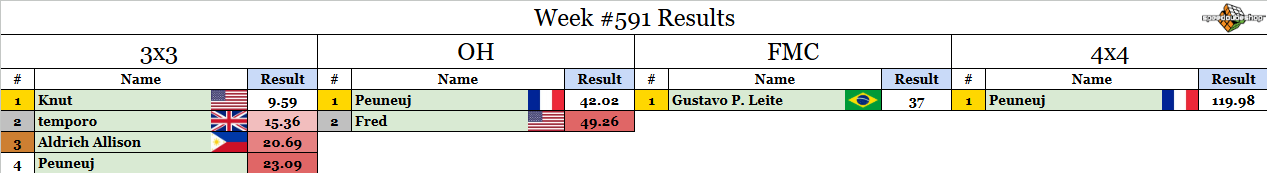
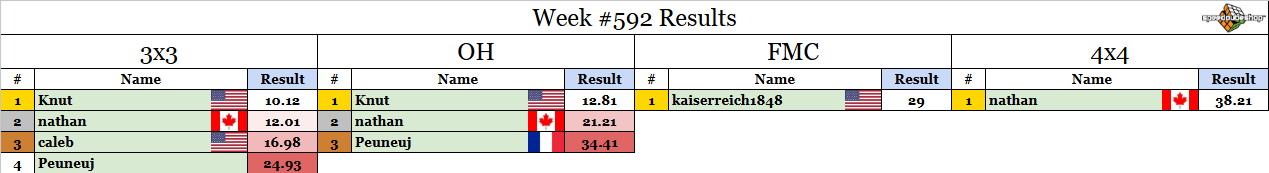
weekly comp update

diff --git a/src/weeklycomp/post.md b/src/weeklycomp/post.md
@@ -1,10 +1,10 @@
-## Weekly Competition #592 
+## Weekly Competition #593 
  
 Sponsored by SpeedCubeShop
 Shop here: [speedcubeshop.com/rouxcomp](https://speedcubeshop.com/rouxcomp)
 Use code ROUX for 5% off
 
-One competitor will be selected at random to receive a $5 SCS gift card! Congrats to last week's winner by a random draw: **Gustavo P. Leite**. DM me for the prize. 
+One competitor will be selected at random to receive a $5 SCS gift card! Congrats to last week's winner by a random draw: **Peuneuj **. DM me for the prize. 
  
 Check whether or not you participated this week yet at [https://bit.ly/RMSWeeklyCompSummary](https://bit.ly/RMSWeeklyCompSummary)  
  
@@ -18,28 +18,28 @@ Check whether or not you participated this week yet at [https://bit.ly/RMSWeekly
  7. The comp runs until Sunday 5pm Eastern time (more or less). Enter your times using the forms links below. 
  
 ### 3x3: [Submission Form](https://forms.gle/H5xoCWvGKnZ92fQt8) 
- 1. U' F L' B2 R2 U B2 D' F2 D L2 F2 D' B L B2 U2 R2 F' D' 
- 2. U L D2 B2 R' F2 U F L' U2 B R2 B2 R2 L2 U2 F2 U2 F U2 
- 3. L F2 L F2 U2 F2 L' F2 L2 U2 R D R2 D B' R' F2 D' R' F2 
- 4. U F2 L2 R2 F2 U L2 U L2 B2 D B U2 R' D2 R2 U R B' D 
- 5. F' D2 F2 U B2 R2 F2 L2 U B2 L2 D2 R B L D L R' U2 B' R 
+ 1. F D2 B L2 R2 B2 U2 F L2 B' U2 F2 U' L F U2 L' R F R D 
+ 2. L2 B2 U2 R' F2 D2 R B2 L2 U2 F' D L F2 L2 U R' U2 F 
+ 3. L D' U2 L2 B' R2 F L2 R2 D2 B' D2 F2 R B2 F2 R' B' D2 L 
+ 4. F2 L2 D F2 U' F2 D2 L2 D F2 R B D2 U' B L' F2 U' B2 F' 
+ 5. U2 B2 U2 F2 L2 F2 R D2 U2 R' F R' D2 U' F' R U R' D' 
  
 ### OH: [Submission Form](https://forms.gle/UgRLW3K1d5KkMGfM9) 
- 1. R2 D2 F2 L2 D F2 R2 D' B2 L2 F' R' U2 B U' B2 U2 L' D' U2 F' 
- 2. R' F' L2 F2 R2 B2 U L2 D2 U' L2 B2 D' B' U R D F L' D2 F2 
- 3. R' F R2 B' R2 B' D2 B2 U2 B' L2 B2 R' D R F' R F L2 U2 
- 4. D R F U2 R2 U2 F2 L2 U2 B' R2 U2 B U' L D' L' D R 
- 5. L2 F' L2 B D2 B D2 F' L2 U2 F R' U2 L D B R' F D' R' U2 
+ 1. R U F2 R2 L F2 B' D' F2 D' L2 F2 D R2 F2 U L2 U' L' F2 
+ 2. R' D' R B2 F2 U B2 U' L2 U2 B2 F2 R2 U' R B L F' R' B2 F' 
+ 3. B2 U2 L2 R2 B D2 U2 B' U2 F' R2 D' B' R' F' U' L D R2 U F 
+ 4. F L2 B' U F' U R' U' D' R2 D R2 B2 D2 B2 L2 B2 D L D2 
+ 5. R2 B' D F2 U F2 D R2 U2 B2 F2 L2 D R2 L' B U L' B' U L' 
  
 ### FMC: [Submission Form](https://forms.gle/1P9VUgZmA1pibwvL9) 
- 1. R' U' F D2 B2 D' R2 B2 L2 R2 U' R2 B2 L' U2 R D' B D' R B2 D' B' R' U' F 
+ 1. R' U' F L' F' L U2 F2 U2 B2 L' F2 L B2 D2 L2 R' B L2 B D R D F' R' U' F 
  
 ### 4x4: [Submission Form](https://forms.gle/bHNjncvEcPvFWBP2A) 
- 1. D2 B' D2 B2 D2 L2 B U2 B2 U2 L U2 D' B' L' F2 D B U' Rw2 Fw2 U R2 F D Uw2 Rw2 U2 D' R2 U' Rw' D2 L Rw2 F' Uw' B2 D2 F Uw' R2 Fw 
- 2. F2 L2 F2 U' F2 U' L2 F2 B2 U L2 U' B' R D' R' B' U' R' U Uw2 B Rw2 D' F Rw2 F2 D' Fw2 U' D' F R2 L' U F' Fw2 Rw' Uw L' D2 Fw R' F' Uw' 
- 3. R2 F2 D' L2 U' F2 D2 R2 F2 U R2 B' R' D2 R' F2 B2 L F U' Fw2 Uw2 F' Fw2 U2 Uw2 R B' D2 L F D2 B2 Uw F U2 B2 D' Fw' D' Rw2 Fw' U Fw2 
- 4. R U' F R U2 L B' U2 R B2 R U2 D2 R F2 R2 B2 U2 F2 D' F' Uw2 R Fw2 U' L Fw2 L D' B2 R2 U Uw2 Fw' R D F2 Fw2 L Fw Rw' B' Fw' U' Uw R2 
- 5. L2 F L2 F2 U2 D2 B' U2 F' R2 U D2 R' B2 R2 D' L' D F2 B' Rw2 Uw2 F D' B2 R2 F' D2 Uw2 Rw2 B Rw Fw2 L2 F' R B2 R Uw' Fw' R' Rw2 Fw' R' D2 
+ 1. U2 L' B' U2 B2 D2 R' F2 B2 U2 L F2 R2 L' U B D B L B2 R Uw2 Fw2 U Rw2 U' B2 R' Fw2 D2 R2 D Uw2 B Fw U2 R L2 U2 Fw' Uw' Fw' D L Rw2 Uw' Rw 
+ 2. U2 R2 U' F2 R2 D' L2 U2 B2 D' R2 F' U2 D' R' L U F R U' Rw2 D Fw2 U2 F' L2 Rw2 B' Fw2 R2 Rw2 F' L' Rw' F2 B' L2 Rw' Fw' Rw2 D' Uw Fw' D2 F2 
+ 3. F B' U F R' L F' R B2 R2 D2 F' U2 R2 B R2 F R L2 Fw2 Uw2 F Fw2 U' Fw2 L2 B2 Fw2 Uw2 R2 F' R2 Rw F R2 U Rw2 Uw Rw D R2 U2 Fw Uw 
+ 4. R2 D' F D F2 R L U' F2 U D2 F2 U R2 D' L2 F2 U R B' Rw2 D R' Fw2 D' R' U B2 R2 D R Fw' R' D R' F' Rw' D2 Uw Rw Uw Rw2 B2 R2 
+ 5. D' B2 R2 U' B2 D' R2 D' R2 B2 L2 B' R2 L F' U' R' L2 U R' F Rw2 D' B Fw2 D' Rw2 U R2 U2 F' D L2 Rw Fw2 D F R B' Uw' L2 D R' Uw R Fw' 
  
 ### Winning FMC solutions from last week: 
- 1. Gustavo P. Leite, 37 moves: [SOLUTION](https://bit.ly/4wabvYz)
+ 1. kaiserreich1848, 29 moves: [SOLUTION](https://bit.ly/4vIMbYt)
